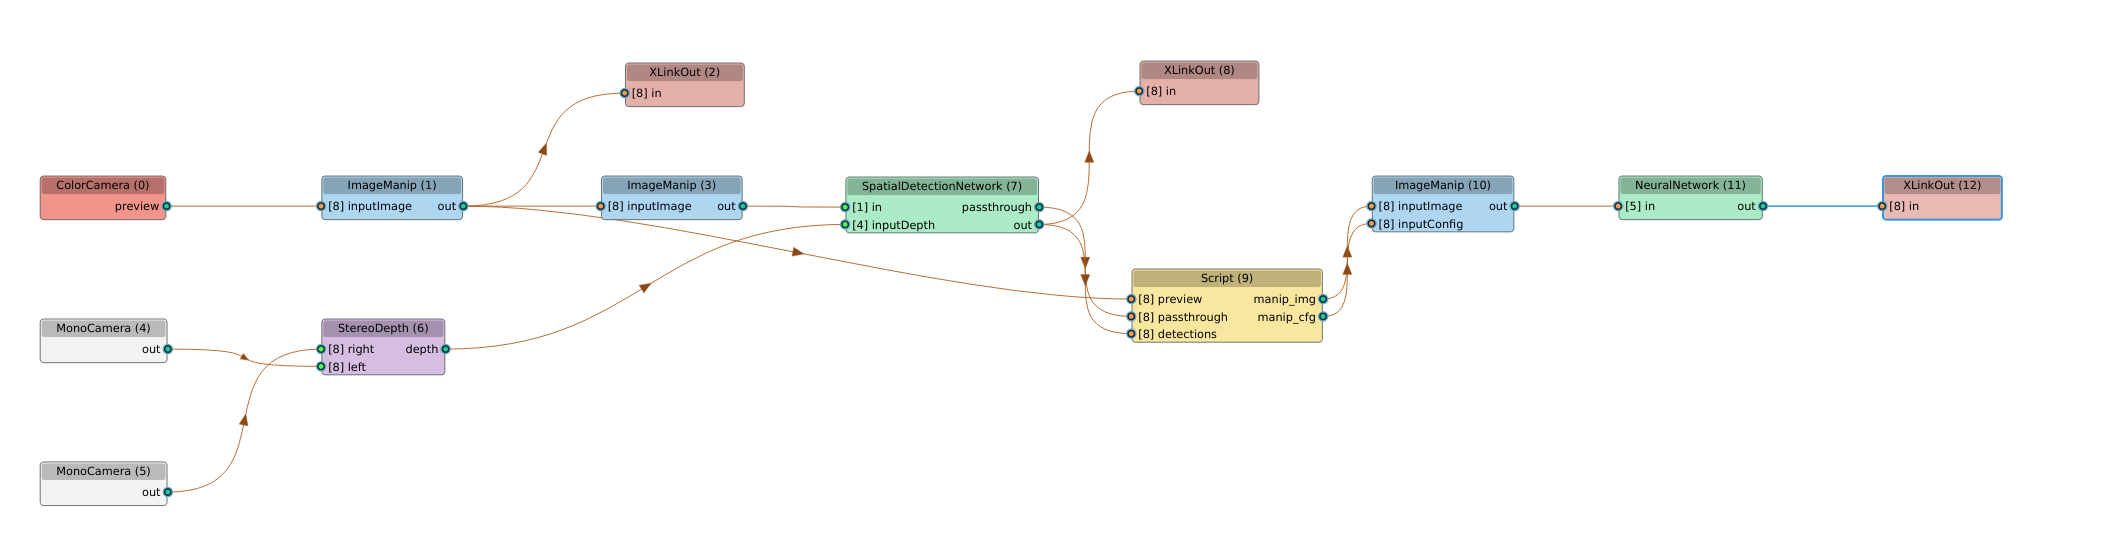
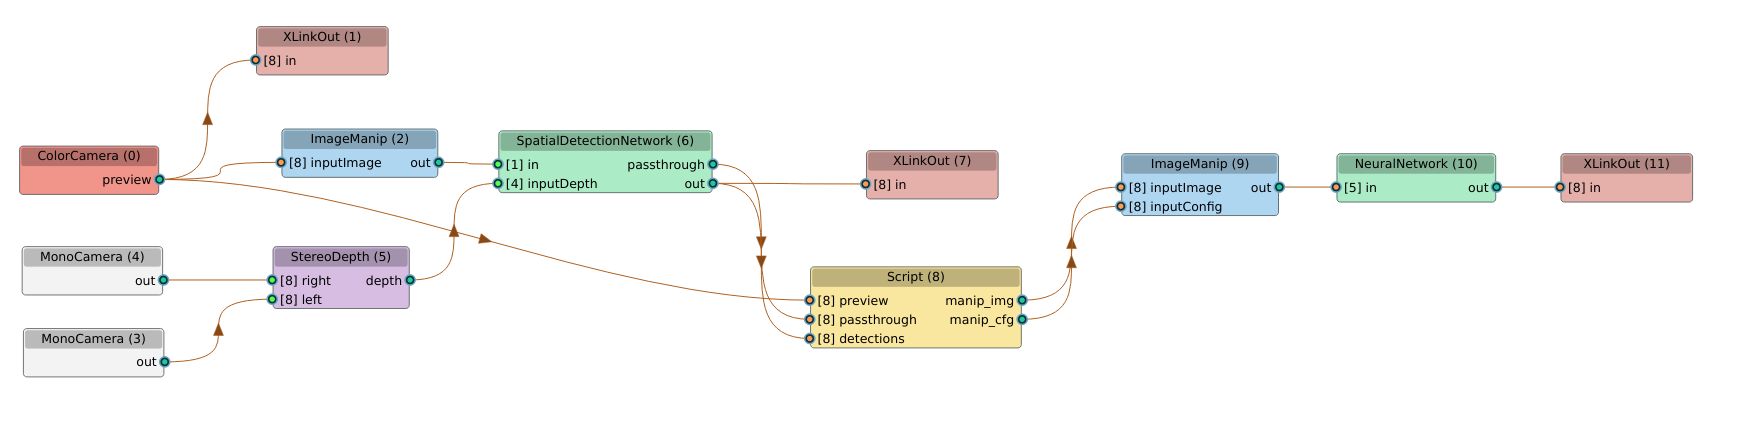
Update pipeline graph picture & fix the freezing problem

diff --git a/gen2-deepsort-tracking/main.py b/gen2-deepsort-tracking/main.py
@@ -33,17 +33,11 @@ def create_pipeline(stereo, yolo_config):
     cam.setResolution(dai.ColorCameraProperties.SensorResolution.THE_1080_P)
     cam.setInterleaved(False)
     cam.setBoardSocket(dai.CameraBoardSocket.RGB)
-
-    # Workaround: remove in 2.18, use `cam.setPreviewNumFramesPool(15)`
-    # This manip uses 15*3.5 MB => 52.5 MB of RAM.
-    copy_manip = pipeline.create(dai.node.ImageManip)
-    copy_manip.setNumFramesPool(15)
-    copy_manip.setMaxOutputFrameSize(3499200)
-    cam.preview.link(copy_manip.inputImage)
+    cam.setPreviewNumFramesPool(30)
 
     cam_xout = pipeline.create(dai.node.XLinkOut)
     cam_xout.setStreamName("color")
-    copy_manip.out.link(cam_xout.input)
+    cam.preview.link(cam_xout.input)
 
     # ImageManip will resize the frame before sending it to the Object detection NN node
     obj_det_manip = pipeline.create(dai.node.ImageManip)
@@ -51,13 +45,7 @@ def create_pipeline(stereo, yolo_config):
     # obj_det_manip.initialConfig.setFrameType(dai.RawImgFrame.Type.RGB888p)
     obj_det_manip.initialConfig.setFrameType(dai.RawImgFrame.Type.BGR888p)
     obj_det_manip.setMaxOutputFrameSize(640 * 640 * 3) # assume 3 channels UINT8 images
-    copy_manip.out.link(obj_det_manip.inputImage)
-    # cam.preview.link(obj_det_manip.inputImage)
-
-    # Debug
-    # obj_det_manip_xout = pipeline.create(dai.node.XLinkOut)
-    # obj_det_manip_xout.setStreamName("color")
-    # obj_det_manip.out.link(obj_det_manip_xout.input)
+    cam.preview.link(obj_det_manip.inputImage)
 
     if stereo:
         monoLeft = pipeline.create(dai.node.MonoCamera)
@@ -111,8 +99,7 @@ def create_pipeline(stereo, yolo_config):
     obj_det.out.link(image_manip_script.inputs['detections'])
     # Remove in 2.18 and use `imgFrame.getSequenceNum()` in Script node
     obj_det.passthrough.link(image_manip_script.inputs['passthrough'])
-    copy_manip.out.link(image_manip_script.inputs['preview'])
-    # obj_det_manip.out.link(image_manip_script.inputs['preview'])
+    cam.preview.link(image_manip_script.inputs['preview'])
 
     image_manip_script.setScript("""
     import time
@@ -131,7 +118,7 @@ def create_pipeline(stereo, yolo_config):
         msgs[seq][name] = msg
 
         # To avoid freezing (not necessary for this ObjDet model)
-        if 15 < len(msgs):
+        if 30 < len(msgs):
             node.warn(f"Removing first element! len {len(msgs)}")
             msgs.popitem() # Remove first element
 
@@ -229,7 +216,7 @@ with dai.Device() as device:
     
     device.startPipeline(create_pipeline(stereo, config))
 
-    tracker = DeepSort(max_age=70, nn_budget=None, embedder=None, nms_max_overlap=1.0, max_cosine_distance=0.2)
+    tracker = DeepSort(max_age=1000, nn_budget=None, embedder=None, nms_max_overlap=1.0, max_cosine_distance=0.2)
 
     sync = TwoStageHostSeqSync()
     queues = {}
@@ -275,9 +262,6 @@ with dai.Device() as device:
                     cv2.putText(frame, coords, (x, y + 60), cv2.FONT_HERSHEY_TRIPLEX, 0.7, (255, 255, 255), 2)
 
             cv2.imshow("Camera", frame)
-
-            # from PIL import Image
-            # im = Image.fromarray(frame)
-            # im.save("frame_v1.jpeg")
+        
         if cv2.waitKey(1) == ord('q'):
             break
